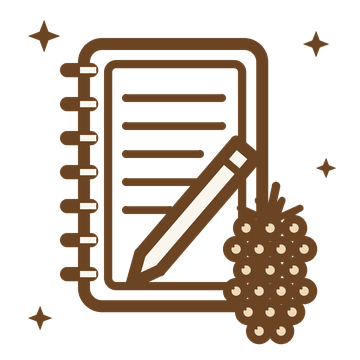
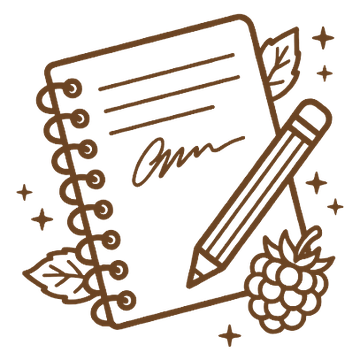
Cuaderno de campo: ícono nuevo de línea café, en el estilo de I+D y Predio (app y web)
Claude-Session: https://claude.ai/code/session_01AQtHHbNtiHMaVCGrhptX3t

diff --git a/tools/make_start_assets.py b/tools/make_start_assets.py
@@ -181,7 +181,9 @@ def notebook_icon():
     # destellos
     for x, y, r in ((44, 36, 16), (316, 44, 13), (326, 168, 10), (40, 318, 12)):
         star(x, y, r)
-    im.resize((360, 360), Image.LANCZOS).save(os.path.join(UI, "start_notebook.png"))
+    # start_notebook.png es ahora el ícono dibujado aparte (estilo de I+D y Predio): no se pisa.
+    if not os.path.exists(os.path.join(UI, "start_notebook.png")):
+        im.resize((360, 360), Image.LANCZOS).save(os.path.join(UI, "start_notebook.png"))
     blob(420, (238, 218, 184), 811).save(os.path.join(UI, "blob_notebook.png"))   # ocre claro
 
 
